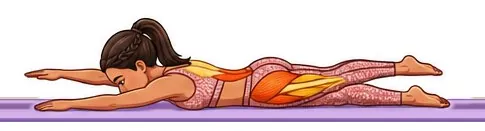
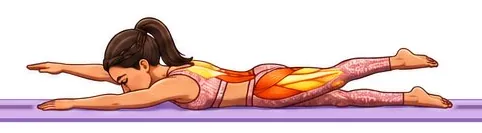
Animación: dead bug con el brazo lejano detrás; tiras B para movimientos alternantes (dead-bug, bird-dog, toe-taps, superman)
- Dead bug: regenerado (mujer y hombre) con la profundidad corregida; ancla por la cabeza (bodyAlign).
- Nuevas tiras B (otro brazo/pierna) con el mismo lienzo y alineadas en el fotograma 1 (cut_pair); anim_config 'alt'.
- Superman: la tira A levantaba brazo y pierna del mismo lado; regenerada A y creada B.
- frames.js: ciclo inicio → A → inicio → B → inicio, flechas de B, precarga de ambas tiras.

Claude-Session: https://claude.ai/code/session_01LTdatG86hVzh7JFC7J2E3b

Changed region(s): [[0.0, 0.1221, 1.0, 0.855], [0.0, 0.8855, 1.0, 0.9466]]

diff --git a/docs/js/frames.js b/docs/js/frames.js
@@ -8,6 +8,16 @@ import { ARROWS } from '../data/arrows.js';
 export const hasFrames = id => !!ANIM[id];
 export const frameCount = id => (ANIM[id] ? ANIM[id].n : 0);
 export const frameURL = (id, model, k) => `img/anim/${model === 'm' ? 'm' : 'f'}/${id}-${k + 1}.webp`;
+// movimientos alternantes (dose.alternating): tira B = el otro brazo/pierna (img/anim/<f|m>/<id>-b-<k>.webp, ANIM[id].alt = nº de fotogramas)
+export const frameAltCount = id => (ANIM[id] && ANIM[id].alt) || 0;
+export const frameAltURL = (id, model, k) => `img/anim/${model === 'm' ? 'm' : 'f'}/${id}-b-${k + 1}.webp`;
+// todas las URLs de fotogramas de un movimiento (A y, si hay, B): para precargar / calentar la caché sin conexión
+export const frameURLs = (id, model) => {
+  const out = [];
+  for (let k = 0; k < frameCount(id); k++) out.push(frameURL(id, model, k));
+  for (let k = 0; k < frameAltCount(id); k++) out.push(frameAltURL(id, model, k));
+  return out;
+};
 // fotograma (base 0) de cada posición del movimiento
 export function posFrames(id, nPos) {
   const a = ANIM[id];
@@ -97,13 +107,19 @@ export class FrameAnimator {
     this.P = posFrames(id, nPos);
     this.el = document.createElement('div');
     this.el.className = 'rigframes';
-    this.el.innerHTML = Array.from({ length: A.n }, (_, k) => `<img src="${frameURL(id, model, k)}" alt="" decoding="async" loading="eager" draggable="false">`).join('');
+    this.fixedMode = fixed != null || !play;
+    // alternante: tira B (el otro lado) con el mismo lienzo; sus fotogramas van detrás de los de A (índices n…n+m-1). En modo fijo
+    // (miniaturas, posición fija) solo se usa A.
+    this.m = !this.fixedMode && A.alt && A.n > 1 ? A.alt : 0;
+    const tag = src => `<img src="${src}" alt="" decoding="async" loading="eager" draggable="false">`;
+    this.el.innerHTML = Array.from({ length: A.n }, (_, k) => tag(frameURL(id, model, k))).join('')
+      + Array.from({ length: this.m }, (_, k) => tag(frameAltURL(id, model, k))).join('');
     this.imgs = [...this.el.children];
     box.prepend(this.el);
     this.cur = -1; this.pos = -1; this.reduced = reduced();
     this.arrowsData = (ARROWS[id] || {})[this.model] || null;
-    this.fixedMode = fixed != null || !play;
-    if (this.arrowsData && !this.fixedMode && A.n > 1) this.layer = new ArrowLayer(this.el);
+    this.arrowsDataB = this.m ? (ARROWS[id + '-b'] || {})[this.model] || null : null;
+    if ((this.arrowsData || this.arrowsDataB) && !this.fixedMode && A.n > 1) this.layer = new ArrowLayer(this.el);
     // decodifica todo antes de animar (sin parpadeo en la primera vuelta); el primer fotograma se muestra ya
     this.isReady = false;
     this.ready = Promise.all(this.imgs.map(im => (im.decode ? im.decode() : Promise.resolve()).catch(() => {}))).then(() => {
@@ -115,6 +131,12 @@ export class FrameAnimator {
     const up = [...Array(A.n).keys()];
     this.loopMode = !!A.loop;
     this.seq = this.loopMode ? up : up.concat(up.slice(1, -1).reverse()); // ciclo o ida y vuelta
+    if (this.m) {
+      // alternante: inicio → A de ida y vuelta → inicio → B de ida y vuelta (el fotograma 1 de B ≈ el de A: se comparte el de A)
+      const upB = Array.from({ length: this.m }, (_, k) => A.n + k);
+      const seqB = this.loopMode ? upB.slice(1) : upB.slice(1).concat(upB.slice(1, -1).reverse());
+      this.seq = this.seq.concat([0], seqB);
+    }
     this.buildTimeline();
     this.k = 0; this.phase = 0; this.last = 0; this.lastDraw = 0;
     this.show(this.seq[0], null, 0); this.setPos(this.headingFrom(0, 0));
@@ -123,7 +145,12 @@ export class FrameAnimator {
   setPos(i) {
     if (i !== this.pos && i >= 0) { this.pos = i; this.onPos(i); if (this.layer && this.reduced) this.staticArrow(i); }
   }
-  isPosFrame(f) { return this.P.includes(f) || (!this.loopMode && (f === 0 || f === this.n - 1)); }
+  // fotograma de B → su equivalente en A (mismas posiciones, mismo respiro)
+  base(f) { return f >= this.n ? f - this.n : f; }
+  isPosFrame(f) {
+    const b = this.base(f), last = (f >= this.n ? this.m : this.n) - 1;
+    return this.P.includes(b) || (!this.loopMode && (b === 0 || b === last));
+  }
   // Línea de tiempo: marcas (fotogramas de posición) en la secuencia; el traslado entre dos marcas dura lo mismo
   // (≈ speed·0,85 s) sea cual sea el nº de fotogramas intermedios, con aceleración y frenado suaves; pausa en cada marca.
   buildTimeline() {
@@ -149,8 +176,8 @@ export class FrameAnimator {
   // posición hacia la que se mueve (o en la que está detenida)
   headingFrom(k, t) {
     const a = this.seq[k];
-    if (t === 0 && this.P.includes(a)) return this.P.indexOf(a);
-    for (let j = 1; j <= this.seq.length; j++) { const f = this.seq[(k + j) % this.seq.length]; if (this.P.includes(f)) return this.P.indexOf(f); }
+    if (t === 0 && this.P.includes(this.base(a))) return this.P.indexOf(this.base(a));
+    for (let j = 1; j <= this.seq.length; j++) { const f = this.base(this.seq[(k + j) % this.seq.length]); if (this.P.includes(f)) return this.P.indexOf(f); }
     return 0;
   }
   // a: fotograma de abajo (opaco); b: fotograma que aparece encima con opacidad t
@@ -164,9 +191,10 @@ export class FrameAnimator {
   }
   // flechas de la etapa del paso k: ¿hay transición entre las posiciones de sus marcas?
   arrowsFor(k) {
-    const d = this.arrowsData; if (!d) return null;
     const lg = this.legOf[k]; if (!lg) return null;
-    const pa = this.P.indexOf(this.seq[lg.kp]), pb = this.P.indexOf(this.seq[lg.kn]);
+    const onB = this.seq[lg.kp] >= this.n || this.seq[lg.kn] >= this.n;   // etapa de la tira B (otro lado)
+    const d = onB ? this.arrowsDataB : this.arrowsData; if (!d) return null;
+    const pa = this.P.indexOf(this.base(this.seq[lg.kp])), pb = this.P.indexOf(this.base(this.seq[lg.kn]));
     if (pa < 0 || pb < 0 || pa === pb) return null;
     const n = this.P.length;
     let t = -1, rev = false;
@@ -174,7 +202,7 @@ export class FrameAnimator {
     else if (this.loopMode && pa === n - 1 && pb === 0) t = n - 1;
     else if (pb === pa - 1) { t = pb; rev = true; }
     const list = d[t];
-    return list && list.length ? { list, rev, key: `${t}${rev ? 'r' : 'f'}` } : null;
+    return list && list.length ? { list, rev, key: `${onB ? 'B' : 'A'}${t}${rev ? 'r' : 'f'}` } : null;
   }
   // con prefers-reduced-motion: flecha estática hacia la posición a la que va
   staticArrow(posIdx) {

diff --git a/docs/data/anim.js b/docs/data/anim.js
@@ -3,6 +3,7 @@
 //   n:   número de fotogramas (iguales para ambos modelos).
 //   pos: fotograma (base 0) que corresponde a cada posición de MOVES[id].positions (por defecto: primero y último).
 //   loop: ciclo 1→…→n→1 (movimientos circulares) en vez de ida y vuelta.
+//   alt: nº de fotogramas de la tira B (img/anim/<f|m>/<id>-b-<k>.webp) de un movimiento alternante (dose.alternating): el otro brazo/pierna.
 // Los fotogramas intermedios se recorren con fundidos suaves; en las posiciones la animación se detiene un momento.
 export const ANIM = {
   'goblet-squat': { n: 5 },
@@ -15,7 +16,7 @@ export const ANIM = {
   'face-pull': { n: 4 },
   'floor-press': { n: 4 },
   'band-external-rotation': { n: 4, pos: [0, 2, 3] },
-  'dead-bug': { n: 5, pos: [0, 2, 4] },
+  'dead-bug': { n: 5, pos: [0, 2, 4], alt: 5 },
   'ring-adductor-lift': { n: 4 },
   'kneeling-hip-flexor': { n: 4 },
   'figure-4': { n: 4 },
@@ -42,11 +43,11 @@ export const ANIM = {
   'kb-swing': { n: 5, pos: [0, 2], loop: true },
   'plank': { n: 4 },
   'side-plank-knee': { n: 4 },
-  'bird-dog': { n: 4 },
+  'bird-dog': { n: 4, alt: 4 },
   'curl-up': { n: 4 },
   'reverse-crunch': { n: 4 },
-  'toe-taps': { n: 4 },
-  'superman': { n: 4 },
+  'toe-taps': { n: 4, alt: 4 },
+  'superman': { n: 4, alt: 4 },
   'db-pullover': { n: 4 },
   'bent-over-row': { n: 4 },
   'one-arm-row-chair': { n: 4 },

diff --git a/docs/data/arrows.js b/docs/data/arrows.js
@@ -43,6 +43,10 @@ export const ARROWS = {
     f: [[{"from":[0.369,0.673],"to":[0.202,0.505],"curve":-0.14}]],
     m: [[{"from":[0.377,0.735],"to":[0.199,0.504],"curve":-0.12}]],
   },
+  'bird-dog-b': {
+    f: [[{"from":[0.369,0.673],"to":[0.202,0.505],"curve":-0.14}]],
+    m: [[{"from":[0.377,0.735],"to":[0.199,0.504],"curve":-0.12}]],
+  },
   'bodyweight-squat': {
     f: [[{"from":[0.313,0.791],"to":[0.176,0.657],"curve":0.45}]],
     m: [[{"from":[0.437,0.587],"to":[0.182,0.657],"curve":0.45}]],
@@ -247,13 +251,21 @@ export const ARROWS = {
     f: [[{"from":[0.88,0.62],"to":[0.9,0.38],"curve":0.15}]],
     m: [[{"from":[0.88,0.62],"to":[0.9,0.38],"curve":0.15}]],
   },
+  'superman-b': {
+    f: [[{"from":[0.88,0.62],"to":[0.9,0.38],"curve":0.15}]],
+    m: [[{"from":[0.88,0.62],"to":[0.9,0.38],"curve":0.15}]],
+  },
   'thoracic-open-book': {
     f: [[]],
     m: [[{"from":[0.372,0.862],"to":[0.13,0.91],"curve":0.1}]],
   },
   'toe-taps': {
     f: [[{"from":[0.808,0.157],"to":[0.747,0.637],"curve":0.45}]],
-    m: [[{"from":[0.819,0.155],"to":[0.752,0.645],"curve":0.11}]],
+    m: [[{"from":[0.819,0.157],"to":[0.752,0.647],"curve":0.11}]],
+  },
+  'toe-taps-b': {
+    f: [[{"from":[0.808,0.157],"to":[0.747,0.637],"curve":0.45}]],
+    m: [[{"from":[0.819,0.157],"to":[0.752,0.647],"curve":0.11}]],
   },
   'wall-angel': {
     f: [[]],

diff --git a/project/tools/build_anim.py b/project/tools/build_anim.py
@@ -3,6 +3,8 @@
 Uso (desde la raíz del repo):  python3 project/tools/build_anim.py [id …] [--no-arrows] [--no-data]
 - Lee  project/tools/anim_config.json  (una entrada por movimiento: fotogramas, ancla, cortes por modelo, loop, pos,
   nowall, tiras unidas `parts`, flechas manuales `arrows`).
+- `alt: "<id>-b"` (+ `bodyAlign` (alinea por el contorno inferior del cuerpo), `altFrames`, `altCuts`, `altArrows`: 'same' (por defecto) | 'auto' | false | {f,m}): tira B de un movimiento alternante, `<f|m>-<id>-b.jpg`; se corta con el mismo lienzo que A y
+  alineada con su fotograma 1 (strip_frames.cut_pair) y se escribe `<id>-b-<k>.webp` (flechas en ARROWS['<id>-b']).
 - Lee  project/references/anim/<f|m>-<id>.jpg  (una tira con N poses en fila; ver project/IMAGES.md).
 - Recorta y alinea con strip_frames.py y escribe  docs/img/anim/<f|m>/<id>-<k>.webp  (k desde 1, ancho ≤ 640, WebP q80).
 - Genera docs/data/anim.js (ANIM: n, pos, loop), docs/data/arrows.js (ARROWS: flechas de movimiento calculadas con
@@ -22,11 +24,11 @@ CFG = os.path.join(ROOT, 'project', 'tools', 'anim_config.json')
 MAX_W, QUALITY = 640, 80
 
 
-def cut(model, sid, n, anchor, cuts, nowall):
+def cut(model, sid, n, anchor, cuts, nowall, body=False):
     from strip_frames import cut_strip
     src = os.path.join(SRC, f'{model}-{sid}.jpg')
     if not os.path.exists(src): raise SystemExit(f'falta {src}')
-    return cut_strip(src, n, anchor, (cuts or {}).get(model, ''), nowall)
+    return cut_strip(src, n, anchor, (cuts or {}).get(model, ''), nowall, None, body)
 
 
 def save(frames, model, mid):
@@ -64,17 +66,36 @@ def job_(args):
             r = cut(model, p['src'], p['frames'], p['anchor'], c.get('cuts'), False)
             frames += r['frames'][p.get('skip', 0):]
         save(frames, model, mid)
-        return mid, model, [[] for _ in range(len(pos_of(c)) - 1)]
-    r = cut(model, mid, c['frames'], c['anchor'], c.get('cuts'), c.get('nowall', False))
-    save(r['frames'], model, mid)
-    arrows = None
+        return mid, model, ([[] for _ in range(len(pos_of(c)) - 1)], None)
+    if c.get('alt'):  # movimiento alternante: tira A (mid) + tira B (c['alt']) con el mismo lienzo y alineadas en el fotograma 1
+        from strip_frames import cut_pair
+        srcA, srcB = os.path.join(SRC, f'{model}-{mid}.jpg'), os.path.join(SRC, f'{model}-{c["alt"]}.jpg')
+        for f in (srcA, srcB):
+            if not os.path.exists(f): raise SystemExit(f'falta {f}')
+        cuts = c.get('cuts') or {}; acuts = c.get('altCuts') or {}
+        r, rb, dx = cut_pair(srcA, srcB, c['frames'], c.get('altFrames', c['frames']), c['anchor'], cuts.get(model, ''), acuts.get(model, ''), c.get('nowall', False), bool(c.get('bodyAlign')))
+        save(r['frames'], model, mid); save(rb['frames'], model, c['alt'])
+        print(mid, model, 'B alineada con dx =', dx, flush=True)
+    else:
+        r = cut(model, mid, c['frames'], c['anchor'], c.get('cuts'), c.get('nowall', False), bool(c.get('bodyAlign'))); rb = None
+        save(r['frames'], model, mid)
+    arrows = None; arrowsB = None
     if want_arrows and c.get('arrows') is not False:
         man = (c.get('arrows') or {}).get(model)
         if man is not None: arrows = man
         else:
             import arrows as A
             arrows = A.compute(r['masks'], [np.asarray(f) for f in r['frames']], pos_of(c), bool(c.get('loop')))
-    return mid, model, arrows
+        # tira B: por defecto las MISMAS flechas que A (el gesto 2D es igual, solo cambia qué lado es: las automáticas salían
+        # inconsistentes entre modelos); altArrows: 'auto' las calcula sobre B, false las apaga, {f:…,m:…} las fija a mano
+        alt_a = c.get('altArrows', 'same')
+        if rb is not None and alt_a is not False and arrows is not None:
+            if alt_a == 'same': arrowsB = arrows
+            elif isinstance(alt_a, dict): arrowsB = alt_a.get(model)
+            elif alt_a == 'auto':
+                import arrows as A
+                arrowsB = A.compute(rb['masks'], [np.asarray(f) for f in rb['frames']], pos_of(c), bool(c.get('loop')))
+    return mid, model, (arrows, arrowsB)
 
 
 def js_arrows(data):
@@ -99,6 +120,7 @@ def js_anim(cfg):
              '//   n:   número de fotogramas (iguales para ambos modelos).',
              '//   pos: fotograma (base 0) que corresponde a cada posición de MOVES[id].positions (por defecto: primero y último).',
              '//   loop: ciclo 1→…→n→1 (movimientos circulares) en vez de ida y vuelta.',
+             '//   alt: nº de fotogramas de la tira B (img/anim/<f|m>/<id>-b-<k>.webp) de un movimiento alternante (dose.alternating): el otro brazo/pierna.',
              '// Los fotogramas intermedios se recorren con fundidos suaves; en las posiciones la animación se detiene un momento.',
              'export const ANIM = {']
     for mid, c in cfg.items():
@@ -106,6 +128,7 @@ def js_anim(cfg):
         bits = [f'n: {n}']
         if c.get('pos') and c['pos'] != [0, n - 1]: bits.append(f"pos: {json.dumps(c['pos'])}")
         if c.get('loop'): bits.append('loop: true')
+        if c.get('alt'): bits.append(f"alt: {c.get('altFrames', c['frames'])}")
         lines.append(f"  '{mid}': {{ {', '.join(bits)} }},")
     lines.append('};')
     return '\n'.join(lines) + '\n'
@@ -124,10 +147,12 @@ def main():
             data[mm.group(1)] = {l.strip()[0]: json.loads(l.strip()[3:].rstrip(',')) for l in mm.group(2).strip('\n').split('\n')}
     errors = []
     with Pool(min(8, os.cpu_count() or 2)) as pool:
-        for mid, model, arrows in pool.imap_unordered(job, todo):
-            if isinstance(arrows, str):
-                errors.append((mid, model, arrows)); print(mid, model, arrows, flush=True); continue
+        for mid, model, res in pool.imap_unordered(job, todo):
+            if isinstance(res, str):
+                errors.append((mid, model, res)); print(mid, model, res, flush=True); continue
+            arrows, arrowsB = res
             if arrows is not None: data.setdefault(mid, {})[model] = arrows
+            if arrowsB is not None: data.setdefault(cfg[mid]['alt'], {})[model] = arrowsB
             print(mid, model, 'flechas', [len(t) for t in arrows] if arrows is not None else '-', flush=True)
     if '--no-data' not in sys.argv:
         open(os.path.join(ROOT, 'docs', 'data', 'anim.js'), 'w').write(js_anim(cfg))

diff --git a/project/tools/strip_frames.py b/project/tools/strip_frames.py
@@ -23,7 +23,7 @@ MAT_D = 60          # distancia de color (suma |ΔRGB|) bajo la cual un píxel d
 HOLE_MAX = 7000     # área máx. (px a 1792 de ancho) de una zona blanca cerrada que se recupera como ropa
 
 
-def cut_strip(src, n, anchor_mode='feet', cuts='', nowall=False):
+def cut_strip(src, n, anchor_mode='feet', cuts='', nowall=False, geom=None, body=False, ref=None):
     im = Image.open(src).convert('RGB'); a = np.asarray(im).astype(int)
     H, W, _ = a.shape
     mx, mn = a.max(2), a.min(2)
@@ -133,11 +133,28 @@ def cut_strip(src, n, anchor_mode='feet', cuts='', nowall=False):
             low = ys > bot - max(6, (bot - top) * 0.04)
             anchors.append(xs[low].mean())
         boxes.append((xs.min(), top, xs.max(), bot))
+    # body=True (tendida boca arriba, p. ej. dead bug): el ancla es la CABEZA, estimada con el pelo oscuro del tercio izquierdo
+    # de la figura (la mano que baja sobre la cabeza no la mueve, como pasaba con 'left'); es el mismo criterio en A y en B.
+    prof0 = None
+    if body:
+        dark = (a.max(2) < 100)
+        for i, m in enumerate(masks):
+            ys, xs = np.where(m & dark)
+            if not len(xs): continue
+            x0, x1 = np.where(m.any(0))[0][[0, -1]]
+            sel = xs < x0 + 0.38 * (x1 - x0)
+            if sel.sum() > 30: anchors[i] = float(np.median(xs[sel]))
     pad = 16
     ext_l = int(max(ax - b[0] for b, ax in zip(boxes, anchors)) + pad)
     ext_r = int(max(b[2] - ax for b, ax in zip(boxes, anchors)) + pad)
     top = max(0, min(b[1] for b in boxes) - pad)
     bottom = min(H, max(floor_bot + 10 if floor_rows else 0, max(b[3] for b in boxes) + pad))
+    own = {'ext_l': ext_l, 'ext_r': ext_r, 'top_rel': int(top - floor_y), 'bot_rel': int(bottom - floor_y)}
+    if geom:  # lienzo común con otra tira (tira B de un movimiento alternante): mismo tamaño y mismo suelo
+        ext_l, ext_r = geom['ext_l'], geom['ext_r']
+        top, bottom = floor_y + geom['top_rel'], floor_y + geom['bot_rel']
+        if top < 0 or bottom > H: raise SystemExit('lienzo común fuera de la imagen')
+        anchors = [ax - geom.get('dx', 0) for ax in anchors]  # dx > 0 mueve la figura a la derecha
 
     frames, out_masks = [], []
     for i, ax in enumerate(anchors):
@@ -154,7 +171,21 @@ def cut_strip(src, n, anchor_mode='feet', cuts='', nowall=False):
         mk[:, x0 - L:x1 - L] = masks[i][top:bottom, x0:x1]
         cm = (src_img * al + bg * (1 - al)).clip(0, 255).astype(np.uint8)
         frames.append(Image.fromarray(cm)); out_masks.append(mk)
-    return {'frames': frames, 'masks': out_masks, 'floor': (floor_y, floor_bot)}
+    return {'frames': frames, 'masks': out_masks, 'floor': (floor_y, floor_bot), 'geom': own, 'prof0': prof0}
+
+
+def cut_pair(srcA, srcB, nA, nB, anchor_mode='feet', cutsA='', cutsB='', nowall=False, body=False):
+    """Corta la tira A y su tira alternante B con el MISMO lienzo y alineando el fotograma 1 de B con el de A
+    (centro de la máscara en x), así pasar de A a B no produce saltos. Devuelve (rA, rB, dx)."""
+    a0 = cut_strip(srcA, nA, anchor_mode, cutsA, nowall, None, body); b0 = cut_strip(srcB, nB, anchor_mode, cutsB, nowall, None, body, a0['prof0'])
+    ga, gb = a0['geom'], b0['geom']
+    G = {'ext_l': max(ga['ext_l'], gb['ext_l']), 'ext_r': max(ga['ext_r'], gb['ext_r']),
+         'top_rel': min(ga['top_rel'], gb['top_rel']), 'bot_rel': max(ga['bot_rel'], gb['bot_rel'])}
+    rA = cut_strip(srcA, nA, anchor_mode, cutsA, nowall, G, body); rB = cut_strip(srcB, nB, anchor_mode, cutsB, nowall, G, body, a0['prof0'])
+    cx = lambda m: np.where(m)[1].mean()
+    dx = int(round(cx(rA['masks'][0]) - cx(rB['masks'][0])))
+    if dx: rB = cut_strip(srcB, nB, anchor_mode, cutsB, nowall, dict(G, dx=dx), body, a0['prof0'])
+    return rA, rB, dx
 
 
 def main():

diff --git a/project/prompts/PROMPTS_v5_wonder_strips.md b/project/prompts/PROMPTS_v5_wonder_strips.md
@@ -59,3 +59,15 @@ No arrows, no text.
 - Decisiones de revisión (fase 3): kb-swing (la kettlebell se ve en todos los fotogramas, detrás de las piernas en los extremos), calf-raise (talón sube
   poco pero se lee), fire-hydrant (abducción de 60-70°, correcta), lateral-lunge, seated-twist-chair (último fotograma ~75°), curl-up/reverse-crunch
   (sutiles, se leen con la flecha), wall-angel (sin pared; `setup`) y overhead-triceps-ext (mancuerna vertical legible): **se conservan**, no se regeneraron.
+
+## Movimientos alternantes: tira B (v2)
+Los movimientos con `dose.alternating` (dead-bug, bird-dog, toe-taps, superman) tienen una **segunda tira B** `<f|m>-<id>-b.jpg` donde se
+mueve el OTRO par de extremidades (misma cámara, escala, mat y músculos; el fotograma 1 de B ≈ el de A). `anim_config.json`: `"alt": "<id>-b"`
+(+ `bodyAlign: true` en dead-bug: ancla = cabeza). `build_anim.py` corta A y B con el mismo lienzo (`strip_frames.cut_pair`) y alineadas en el fotograma 1;
+`frames.js` recorre inicio → A → inicio → B → inicio. No espejar en horizontal (la cabeza cambiaría de lado).
+- Prompt de B: pasar la tira A (URL cdn.wonder.so) como única referencia y pedir "recreate EXACTLY … but the OTHER arm and leg", **diciendo qué es near/far y qué se dibuja
+  delante/detrás** (la extremidad cercana tapa el torso; la lejana queda detrás). Revisar siempre en el recorte que la lejana no cruce por delante.
+- Dead bug (error de profundidad): el brazo lejano que baja debe quedar DETRÁS del brazo vertical cercano, del hombro y de la cabeza; se corrigió pasando la tira anterior como referencia.
+- Superman: la tira A original levantaba brazo y pierna LEJANOS (mismo lado); se regeneró A (brazo lejano + pierna cercana) y B (brazo cercano + pierna lejana). Bird-dog B costó 2 intentos
+  (el 1.º levantaba brazo y pierna cercanos).
+- Hombre: 2.ª referencia = tira B de la mujer (+ la tira A del hombre como 3.ª para fijar el personaje).
